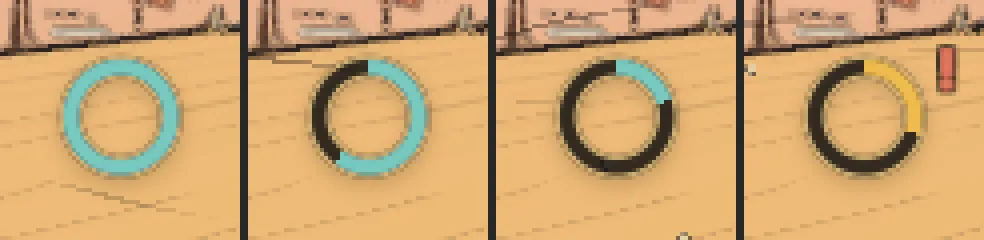
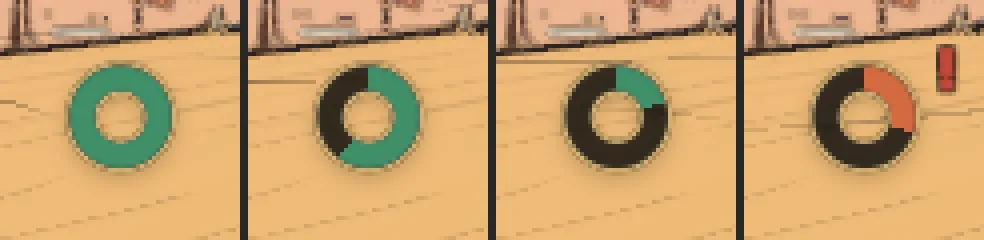
Refs #710: the stamina wheel back in its green, red and gold, as thick as it was
The author: "did we change the color of the wheel and how thick it is? revert the color and make the wheel a bit
thicker like it used to be." aedc0d93f had made the gauge the enamel turquoise / red, 3.6 px wide at 12.5 px.

STAMINA_RING (src/hud-look.js) now: the gauge the old inked wheel's colours, #3f8f6a, winded #c8483a pulsing to
34 px, about 6.4 px at 9.35 px); the band widened to 5.4..14 px to hold it with its 1.2 px brass hairlines; still
nothing drawn inside the band's inner edge. index.html's winded CSS and Unity BridgeHud.cs StaminaRing (its numbers
and its own Fill / Winded / Pulse colours, where it used HintAccent / EnBad / EnGold) follow. Checked picture against
picture: web (headless Chrome, port 5448) and Unity (batch, -mute, -ui stamina poses); the changelog line edited, its
after pictures replaced, the before ones kept.

Tests: tests/stamina-ring.test.js (the colours, the gauge's width and radius, the C# and CSS on the same numbers).

diff --git a/tests/stamina-ring.test.js b/tests/stamina-ring.test.js
@@ -2,7 +2,7 @@
 import test from 'node:test';
 import assert from 'node:assert/strict';
 import { readFileSync } from 'node:fs';
-import { STAMINA_RING as R, staminaSvg, ENAMEL } from '../src/hud-look.js';
+import { STAMINA_RING as R, staminaSvg } from '../src/hud-look.js';
 import { STAMINA_POSE, UI_PIECES } from '../engine/ui-poses.js';
 
 const circles = (svg) => [...svg.matchAll(/<circle([^>]*)\/>/g)].map(([, a]) => Object.fromEntries([...a.matchAll(/([\w-]+)="([^"]*)"/g)].map(([, k, v]) => [k, v])));
@@ -26,17 +26,22 @@ test('the page\'s wheel is a ring: nothing painted inside its band, the band and
   assert.ok(alphaAt(svg, (R.outer + R.inner) / 2) > 0.95, 'the band is solid');
   assert.equal(alphaAt(svg, R.outer + 0.3), 0, 'nothing outside the band');
   const arc = circles(svg).find((c) => c.class === 'arc');
-  assert.equal(Number(arc.r), R.arcR); assert.equal(arc.stroke, ENAMEL.accent); assert.equal(arc.transform, 'rotate(-90)');
-  assert.ok(R.arcR - R.arcWidth / 2 >= R.inner + R.edgeWidth && R.arcR + R.arcWidth / 2 <= R.outer - R.edgeWidth, 'the gauge between the hairlines');
+  assert.equal(Number(arc.r), R.arcR); assert.equal(arc.stroke, '#3f8f6a'); assert.equal(arc.transform, 'rotate(-90)');
+  assert.ok(R.arcR - R.arcWidth / 2 >= R.inner + R.edgeWidth - 1e-9 && R.arcR + R.arcWidth / 2 <= R.outer - R.edgeWidth + 1e-9, 'the gauge between the hairlines');
+  // (the old inked wheel's gauge, issue #710 follow-up: its green, and about as thick, 7.5 of 40 units in 34 px ≈ 6.4 px)
+  assert.deepEqual([R.fill, R.winded, R.pulse], ['#3f8f6a', '#c8483a', '#f2c54b']);
+  assert.ok(R.arcWidth >= 6 && R.arcWidth <= 6.4, `the gauge ${R.arcWidth} px wide`);
+  assert.ok(R.arcR >= 9.4 && R.arcR <= 9.6, `the gauge centred ${R.arcR} px out`);
   assert.match(svg, new RegExp(`viewBox="${-R.size / 2} ${-R.size / 2} ${R.size} ${R.size}"`));
 });
 
-test('index.html: no wheel of its own (the page builds it from the spec), the winded look from the enamel tokens', () => {
+test('index.html: no wheel of its own (the page builds it from the spec), the winded look in the old wheel’s red and gold', () => {
   const html = readFileSync(new URL('../index.html', import.meta.url), 'utf8');
   assert.match(html, /<div id="stamina" aria-hidden="true"><\/div>/);
   assert.match(html, /#stamina \{[^}]*width: 34px; height: 34px;/, 'the box the spec is drawn for');
-  assert.match(html, /#stamina\.winded \.arc \{ stroke: var\(--en-bad\); animation: stpulse \.7s/);
-  assert.match(html, /@keyframes stpulse \{ 50% \{ stroke: var\(--en-gold\); \} \}/);
+  assert.ok(html.includes(`#stamina.winded .arc { stroke: ${R.winded}; animation: stpulse .7s`), 'winded: the old red');
+  assert.ok(html.includes(`@keyframes stpulse { 50% { stroke: ${R.pulse}; } }`), 'pulsing to the old gold');
+  assert.match(html, new RegExp(`#stamina\\.winded::after \\{[^}]*color: ${R.winded};`), 'the "!" in the same red');
   assert.ok(!/#f7ecd2[^\n]*#stamina|#stamina[^\n]*#f7ecd2/.test(html), 'no cream paper in the wheel');
   const main = readFileSync(new URL('../src/main.js', import.meta.url), 'utf8');
   assert.match(main, /stEl\.innerHTML = staminaSvg\(\)/);
@@ -52,12 +57,11 @@ test('Unity draws the same ring: BridgeHud.cs StaminaRing holds the spec\'s numb
   assert.ok(num('Box') / 2 >= R.outer + 2 * R.shadow.blur, 'the sprites hold the shadow\'s blur (two deviations)');
   assert.match(block + cs, /float sigma = StaminaRing\.ShadowBlur;/, 'a filter\'s drop-shadow blur is the deviation itself');
   assert.match(cs, /wheelFill\.fillOrigin = \(int\)Image\.Origin360\.Top; wheelFill\.fillClockwise = true;/);
-  assert.match(cs, /wheelFill\.color = winded \? Color\.Lerp\(EnBad, EnGold, k\) : HintAccent;/);
-  // (the colours it uses are the enamel's: the accent, the red and gold, the brass, the hints' charcoal)
+  assert.match(cs, /wheelFill\.color = winded \? Color\.Lerp\(StaminaRing\.Winded, StaminaRing\.Pulse, k\) : StaminaRing\.Fill;/);
+  assert.match(cs, /wheelFill = Ui\.Rect\(wheel, StaminaRing\.Fill,/);
+  // (the gauge's colours the spec's, the old wheel's; the brass and the hints' charcoal the enamel's)
+  assert.ok(block.includes(`FillHex = "${R.fill}", WindedHex = "${R.winded}", PulseHex = "${R.pulse}"`), 'StaminaRing\'s colours');
   const hints = readFileSync(new URL('../unity/Hiraeth/Assets/HiraethJS/Runtime/BridgeHud.Hints.cs', import.meta.url), 'utf8');
-  assert.match(hints, new RegExp(`HintAccent = Ui\\.Hex\\("${R.fill}"\\)`));
-  assert.match(hints, new RegExp(`EnBad = Ui\\.Hex\\("${R.winded}"\\)`));
-  assert.match(hints, new RegExp(`EnGold = Ui\\.Hex\\("${R.pulse}"\\)`));
   assert.match(hints, new RegExp(`EnBrass = Ui\\.Hex\\("${R.edge}"\\)`));
   assert.equal(R.band, 'rgba(22, 23, 23, 0.96)'); assert.match(block + cs, /new Color\(22 \/ 255f, 23 \/ 255f, 23 \/ 255f, 0\.96f\)/);
   // (no pie: the old gold disc and its faint ink back are gone)

diff --git a/src/changelog-media.js b/src/changelog-media.js
@@ -1353,11 +1353,11 @@ const RELIEF696 = 'Issue #696: the review page’s captures (tools/relief-shots.
 export const CHANGELOG_MEDIA = {
   '2.31': [
   { match: 'The stamina wheel beside the traveller is a clear ring now', shots: [
-    { name: 'stamina-web', caption: 'The stamina wheel on the web, close up: full, part spent, low, winded. Before, a cream disc with a cream middle; after, a ring with nothing in its middle', size: [984, 240],
-      from: 'Issue #710: the web game in muted headless Chrome (hiraeth.muted and the volumes at 0 set before load, --mute-audio; High, 1280 × 720, 10:00, clear) on this branch’s own Vite (port 5448), the desert’s start, the stamina held at each value by the player’s update (as engine/ui-poses.js staminafull…staminawinded); a 60 × 60 px crop round the wheel at four times (nearest), left to right: all but full (0.994), 0.6, 0.2, winded at 0.3; before origin/main at 0609840ee, after this change; 27 October; cwebp -q 80',
+    { name: 'stamina-web', caption: 'The stamina wheel on the web, close up: full, part spent, low, winded. Before, a cream disc with a cream middle; after, a ring with nothing in its middle, its gauge in the same green and as thick', size: [984, 240],
+      from: 'Issue #710: the web game in muted headless Chrome (hiraeth.muted and the volumes at 0 set before load, --mute-audio; High, 1280 × 720, 10:00, clear) on this branch’s own Vite (port 5448), the desert’s start, the stamina held at each value by the player’s update (as engine/ui-poses.js staminafull…staminawinded); a 60 × 60 px crop round the wheel at four times (nearest), left to right: all but full (0.994), 0.6, 0.2, winded at 0.3; before origin/main at 0609840ee, after this change with its follow-up (the old green, red and gold, the gauge 6 px wide again; branch claude/issue-710-b); 27 October; cwebp -q 80',
       view: 'Sprint in the desert until the wheel shows beside the traveller; run it dry for the winded look.' },
     { name: 'stamina-unity', caption: 'The same four in the Unity version: before, a gold pie on a faint disc; after, the same ring as the web', size: [984, 240],
-      from: 'Issue #710: the Unity bridge in the editor’s batch run on this Mac (scripts/unity-js-run.sh -level desert -mute -frames 1280x720 -ui staminafull,staminapart,staminalow,staminawinded: engine/ui-poses.js holds the stamina), the same 60 × 60 px crop at four times as the web’s; before the original BridgeHud C# (a gold radial pie on a faint disc), after this change; the winded gauge is caught at a different moment of its red-to-gold pulse than the web’s; 27 October; cwebp -q 80',
+      from: 'Issue #710: the Unity bridge in the editor’s batch run on this Mac (scripts/unity-js-run.sh -level desert -mute -frames 1280x720 -ui staminafull,staminapart,staminalow,staminawinded: engine/ui-poses.js holds the stamina), the same 60 × 60 px crop at four times as the web’s; before the original BridgeHud C# (a gold radial pie on a faint disc), after this change with its follow-up (branch claude/issue-710-b); the winded gauge is caught at a different moment of its red-to-gold pulse than the web’s; 27 October; cwebp -q 80',
       view: 'The Unity version: sprint until the wheel shows; the -ui stamina poses above hold it for a picture.' },
   ] },
   { match: 'On Android, the Unity version no longer leaves you stuck', shots: [

diff --git a/src/changelog.js b/src/changelog.js
@@ -31,7 +31,7 @@ export const CHANGELOG = [
       { text: "Try a new sprint for the traveller, closer to Breath of the Wild's: hunched further into it, his arms pumping high, a quicker stride. It is a switch in the dev menu's Story tab (Kevin Iglesias's sprint, from his Human Basic Motions pack); the sprint you know stays the default.", see: "Open the dev menu, Story tab, turn on Kevin Iglesias's sprint and sprint (L3 / Shift); or add ?sprint=kevin to the address." },
       "The soft pale patches on the open ground of Vael, Home, the Buried Machine and the Glass Dunes cost less to draw: the same picture on High, up to half a millisecond a frame less at 1920 × 1080 on a Mac (M4 Pro). On the Handheld preset the tiny wind dashes and pebbles right at your feet are left out; the stones further off stay.",
       { text: "Let go of the stick at a run and the traveller now carries on over a couple of braking strides before he stands, the way Link does: about two metres from a sprint, under half a metre from a jog. He still stops short at a ledge, a kerb or a flight of steps ahead, when someone starts talking to him, and as he comes in through a door. The old quick stop is a switch in the dev menu's Story tab.", see: "Sprint across open ground and let go of the stick: two braking strides, then he stands about 2 m on. Sprint at a ledge or a flight of steps and let go a metre short: he stops at once, as before." },
-      "The stamina wheel beside the traveller is a clear ring now, in the dark-and-brass look of the rest of the HUD: a charcoal band edged in fine brass lines that fills in turquoise, with nothing painted in its middle, so you see the world through it. Winded, it pulses red and gold with a \"!\" beside it. The Unity version draws the same ring where it showed a gold pie.",
+      "The stamina wheel beside the traveller is a clear ring now, in the dark-and-brass look of the rest of the HUD: a charcoal band edged in fine brass lines, with nothing painted in its middle, so you see the world through it. It still fills in its green and is as thick as it was; winded, it pulses red and gold with a \"!\" beside it, as before. The Unity version draws the same ring where it showed a gold pie.",
       { text: "On Android, the Unity version no longer leaves you stuck when the newest game needs a newer player: Updates now offers Get the new player, which downloads it in your browser. Install it over the one you have and your saves are kept. On the Xbox it says to install the new package over the old one.", see: "In the Unity version on Android, open Updates (Menu, then Updates) while the newest game needs a newer player, and choose Get the new player." },
     ],
   },

diff --git a/index.html b/index.html
@@ -144,8 +144,8 @@
       #stamina.on { opacity: 1; }
       #stamina svg { display: block; width: 100%; height: 100%; overflow: visible; transform: none; }
       #stamina .arc { transition: stroke .3s; }
-      #stamina.winded .arc { stroke: var(--en-bad); animation: stpulse .7s ease-in-out infinite; }
-      @keyframes stpulse { 50% { stroke: var(--en-gold); } }
+      #stamina.winded .arc { stroke: #c8483a; animation: stpulse .7s ease-in-out infinite; }
+      @keyframes stpulse { 50% { stroke: #f2c54b; } }
       body.talking #stamina { opacity: 0; }
       /* knocked out (a fatal fall): the screen dims and asks to restart (src/main.js) */
       #restart { position: fixed; inset: 0; z-index: 85; display: grid; place-items: start center; padding-top: 16vh; background: var(--en-scrim);
@@ -599,7 +599,7 @@
       html.reduce-motion #page.open, html.reduce-motion #dialogue .dlg-more, html.reduce-motion #dialogue .dlg-text.heard > .dlg-live { animation: none; }
       /* not by colour alone: low health is hatched as well as red and pulsing, winded stamina dashed as well as red */
       #health .h.low .hf { stroke: #2b211f; stroke-width: 0.8; stroke-dasharray: 1.5 1.5; }
-      #stamina.winded::after { content: '!'; position: absolute; left: 100%; top: -4px; margin-left: 1px; font: 900 15px/1 var(--face-title); color: var(--en-bad); text-shadow: 0 0 1px #161717, 0 0 1px #161717, 0 1px 2px rgba(0, 0, 0, 0.4); }
+      #stamina.winded::after { content: '!'; position: absolute; left: 100%; top: -4px; margin-left: 1px; font: 900 15px/1 var(--face-title); color: #c8483a; text-shadow: 0 0 1px #161717, 0 0 1px #161717, 0 1px 2px rgba(0, 0, 0, 0.4); }
     </style>
   </head>
   <body>

diff --git a/src/hud-look.js b/src/hud-look.js
@@ -107,11 +107,11 @@ export const HUD_MESSAGES = Object.freeze([
  */
 export const STAMINA_RING = Object.freeze({
   size: 34,
-  outer: 15.5, inner: 9.5,          // the band: from 9.5 to 15.5 px out; inside 9.5 px, nothing drawn
+  outer: 14, inner: 5.4,            // the band: from 5.4 to 14 px out; inside 5.4 px, nothing drawn
   band: ENAMEL.strip,               // the hints' charcoal
   edge: ENAMEL.brass, edgeWidth: 1.2,   // a brass hairline on each side of the band, inside it
-  arcR: 12.5, arcWidth: 3.6,        // the gauge, between the hairlines
-  fill: ENAMEL.accent, winded: ENAMEL.bad, pulse: ENAMEL.gold, pulseSecs: 0.7,
+  arcR: 9.6, arcWidth: 6,           // the gauge, between the hairlines: 6.6 to 12.6 px, as thick as the old inked wheel's (7.5 of 40)
+  fill: '#3f8f6a', winded: '#c8483a', pulse: '#f2c54b', pulseSecs: 0.7,   // the old wheel's green, red and gold (issue #710)
   shadow: { dy: 2, blur: 2.5, alpha: 0.33 },   // (the enamel's soft shadow, ENAMEL.shadow's 0 2px 5px, as a ring's drop-shadow:
                                                // a filter's blur is the deviation, box-shadow's 5px is twice it)
 });

diff --git a/unity/Hiraeth/Assets/HiraethJS/Runtime/BridgeHud.cs b/unity/Hiraeth/Assets/HiraethJS/Runtime/BridgeHud.cs
@@ -111,12 +111,12 @@ namespace Hiraeth.Bridge
             wheel = Ui.Node("stamina", root);
             wheelShadow = Ui.Rect(wheel, new Color(0, 0, 0, StaminaRing.ShadowAlpha), 0, "shadow"); wheelShadow.sprite = RingSprite("shadow");
             wheelFace = Ui.Rect(wheel, Color.white, 0, "ring"); wheelFace.sprite = RingSprite("face");
-            wheelFill = Ui.Rect(wheel, HintAccent, 0, "gauge"); wheelFill.sprite = RingSprite("arc");
+            wheelFill = Ui.Rect(wheel, StaminaRing.Fill, 0, "gauge"); wheelFill.sprite = RingSprite("arc");
             wheelFill.type = Image.Type.Filled; wheelFill.fillMethod = Image.FillMethod.Radial360; wheelFill.fillOrigin = (int)Image.Origin360.Top; wheelFill.fillClockwise = true;
             { float h = StaminaRing.Size / 2, p = StaminaRing.Box / 2;
               Ui.Place(wheelShadow.rectTransform, h - p, h - p + StaminaRing.ShadowDy, 2 * p, 2 * p);
               Ui.Place(wheelFace.rectTransform, h - p, h - p, 2 * p, 2 * p); Ui.Place(wheelFill.rectTransform, h - p, h - p, 2 * p, 2 * p); }
-            wheelBang = Ui.Label(wheel, "winded", Ui.SansHeavy, 14, EnBad, TextAnchor.UpperLeft, Ui.SansHeavyStyle, 1f); wheelBang.text = "!";
+            wheelBang = Ui.Label(wheel, "winded", Ui.SansHeavy, 14, StaminaRing.Winded, TextAnchor.UpperLeft, Ui.SansHeavyStyle, 1f); wheelBang.text = "!";
             { var o = wheelBang.gameObject.AddComponent<Outline>(); o.effectColor = new Color(22 / 255f, 23 / 255f, 23 / 255f, 0.9f); o.effectDistance = new Vector2(1f, -1f); }
             Ui.Place(wheelBang.rectTransform, StaminaRing.Size + 1, -4, 14, 20);
             wordsRoot = Ui.Node("words", root);   // (a minigame's words in the world: under the conversation and the cards, as the page's #mg-words)
@@ -1901,7 +1901,7 @@ namespace Hiraeth.Bridge
             // (winded: the enamel's red pulsing to its gold and back, ease-in-out over 0.7 s, as the page's stpulse)
             bool winded = s.Get("winded") is bool w && w;
             float k = 0.5f - 0.5f * Mathf.Cos(2 * Mathf.PI * Time.unscaledTime / StaminaRing.PulseSecs);
-            wheelFill.color = winded ? Color.Lerp(EnBad, EnGold, k) : HintAccent;
+            wheelFill.color = winded ? Color.Lerp(StaminaRing.Winded, StaminaRing.Pulse, k) : StaminaRing.Fill;
             Show(wheelBang.rectTransform, winded);
         }
 
@@ -1909,7 +1909,9 @@ namespace Hiraeth.Bridge
         /// holds the two the same).</summary>
         static class StaminaRing
         {
-            public const float Size = 34, Outer = 15.5f, Inner = 9.5f, EdgeWidth = 1.2f, ArcR = 12.5f, ArcWidth = 3.6f;
+            public const float Size = 34, Outer = 14f, Inner = 5.4f, EdgeWidth = 1.2f, ArcR = 9.6f, ArcWidth = 6f;
+            public const string FillHex = "#3f8f6a", WindedHex = "#c8483a", PulseHex = "#f2c54b";   // (the old wheel's green, red and gold)
+            public static readonly Color Fill = Ui.Hex(FillHex), Winded = Ui.Hex(WindedHex), Pulse = Ui.Hex(PulseHex);
             public const float ShadowDy = 2, ShadowBlur = 2.5f, ShadowAlpha = 0.33f, PulseSecs = 0.7f;
             public const float Box = 48;   // (the sprites' square: the ring and two of the shadow's deviations round it)
         }

diff --git a/changelog.md b/changelog.md
@@ -5,7 +5,7 @@ The same release notes shown in the game (press **N** or open settings).
 ## v2.31 — 2026-10-26
 
 - On Android, the Unity version no longer leaves you stuck when the newest game needs a newer player: Updates now offers Get the new player, which downloads it in your browser. Install it over the one you have and your saves are kept. On the Xbox it says to install the new package over the old one.
-- The stamina wheel beside the traveller is a clear ring now, in the dark-and-brass look of the rest of the HUD: a charcoal band edged in fine brass lines that fills in turquoise, with nothing painted in its middle, so you see the world through it. Winded, it pulses red and gold with a "!" beside it. The Unity version draws the same ring where it showed a gold pie.
+- The stamina wheel beside the traveller is a clear ring now, in the dark-and-brass look of the rest of the HUD: a charcoal band edged in fine brass lines, with nothing painted in its middle, so you see the world through it. It still fills in its green and is as thick as it was; winded, it pulses red and gold with a "!" beside it, as before. The Unity version draws the same ring where it showed a gold pie.
 - Let go of the stick at a run and the traveller now carries on over a couple of braking strides before he stands, the way Link does: about two metres from a sprint, under half a metre from a jog. He still stops short at a ledge, a kerb or a flight of steps ahead, when someone starts talking to him, and as he comes in through a door. The old quick stop is a switch in the dev menu's Story tab.
 - The soft pale patches on the open ground of Vael, Home, the Buried Machine and the Glass Dunes cost less to draw: the same picture on High, up to half a millisecond a frame less at 1920 × 1080 on a Mac (M4 Pro). On the Handheld preset the tiny wind dashes and pebbles right at your feet are left out; the stones further off stay.
 - Try a new sprint for the traveller, closer to Breath of the Wild's: hunched further into it, his arms pumping high, a quicker stride. It is a switch in the dev menu's Story tab (Kevin Iglesias's sprint, from his Human Basic Motions pack); the sprint you know stays the default.

diff --git a/docs/systems/movement.md b/docs/systems/movement.md
@@ -480,10 +480,12 @@ From the author's notes (TODO.md, "Feel and look"). Tests: `tests/feel.test.js`.
   gauges for climbing and stamina are gone. Since issue #710 ("the stamina wheel is white in the
   middle on web but I would expect that part to be transparent? also on unity the stamina wheel
   doesn't look the same?") it is the enamel HUD's ring with **nothing in its middle**: one spec,
-  `src/hud-look.js` `STAMINA_RING` (a 34 px box: a charcoal band from 9.5 to 15.5 px out, the hints'
-  `rgba(22, 23, 23, 0.96)`, a 1.2 px brass hairline on each side of it, the gauge 3.6 px wide at
-  12.5 px in the enamel turquoise filled clockwise from the top, winded the enamel red pulsing to
-  its gold every 0.7 s with a "!" beside it, the enamel's soft shadow as a drop-shadow). The page
+  `src/hud-look.js` `STAMINA_RING` (a 34 px box: a charcoal band from 5.4 to 14 px out, the hints'
+  `rgba(22, 23, 23, 0.96)`, a 1.2 px brass hairline on each side of it, the gauge 6 px wide at
+  9.6 px (6.6 to 12.6 px) filled clockwise from the top, winded pulsing red to gold every 0.7 s
+  with a "!" beside it, the enamel's soft shadow as a drop-shadow). The gauge keeps the old inked
+  wheel's colours and thickness (the author: "revert the color and make the wheel a bit thicker
+  like it used to be"): green `#3f8f6a`, winded `#c8483a` pulsing to `#f2c54b`, about its 6.4 px. The page
   builds its SVG from it (`staminaSvg`); Unity (BridgeHud.cs `StaminaRing`, `RingSprite`: the band
   and hairlines, the gauge's annulus as a radially filled Image, the shadow, made as textures from
   the same numbers) draws the same, where it drew a gold radial pie on a faint disc
